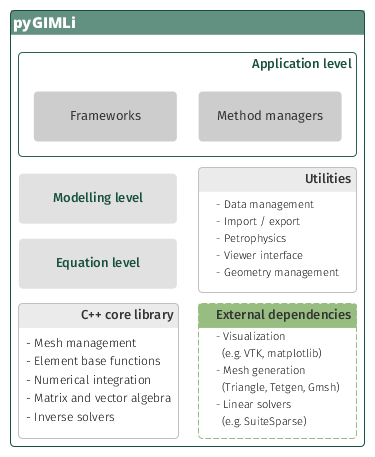
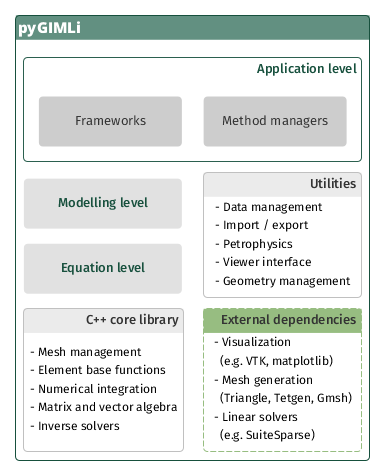
Some more doc improvement, more readable font in software design figure

Changed region(s): [[0.0293, 0.0, 0.9973, 0.9803], [0.1467, 0.5514, 0.3813, 0.5821], [0.176, 0.2451, 0.3813, 0.2757]]

diff --git a/python/pygimli/meshtools/quality.py b/python/pygimli/meshtools/quality.py
@@ -9,18 +9,23 @@ Field, D. A. (2000), Qualitative measures for initial meshes. Int. J. Numer.
 Meth. Engng., 47: 887–906.
 """
 
-import pygimli as pg
 import matplotlib.pyplot as plt
 import numpy as np
+
+import pygimli as pg
+
 
 # Helper functions
 def _boundaryLengths(cell):
     """Return boundary lengths of a given cell."""
-    return np.array([cell.boundary(i).size() for i in range(cell.boundaryCount())])
+    return np.array(
+        [cell.boundary(i).size() for i in range(cell.boundaryCount())])
+
 
 def _unitVector(vector):
     """Return the unit vector of the vector."""
     return vector / np.linalg.norm(vector)
+
 
 def _angleBetween(v1, v2):
     """Return the angle between vectors v1 and v2.
@@ -36,6 +41,7 @@ def _angleBetween(v1, v2):
     v2_u = _unitVector(v2)
     angle = np.arccos(np.clip(np.dot(v1_u, v2_u), -1.0, 1.0))
     return np.degrees(angle)
+
 
 def _cellAngles(cell):
     """Return angles of a triangular cell.
@@ -67,8 +73,9 @@ def _cellAngles(cell):
 
     return alpha, beta, gamma
 
+
 # Quality measures
-def _eta(cell):
+def eta(cell):
     r"""Return default triangle quality (eta) of a given cell.
 
     The quality measure relates the area of the triangle (a)
@@ -80,11 +87,13 @@ def _eta(cell):
     """
     return 4 * np.sqrt(3) * cell.size() / np.sum(_boundaryLengths(cell)**2)
 
-def _minimumAngle(cell):
-    """Return the normalized minimum angle of a given cell."""
-    return np.min(_cellAngles(cell))/60.
 
-def _nsr(cell):
+def minimumAngle(cell):
+    """Return the normalized minimum angle of a given cell."""
+    return np.min(_cellAngles(cell)) / 60.
+
+
+def nsr(cell):
     r"""Return the normalized shape ratio (NSR) for a given cell.
 
     Also referred to as the radius ratio, as it is described by
@@ -95,13 +104,14 @@ def _nsr(cell):
         \rho = \frac{2r}{R}
     """
     a, b, c = _boundaryLengths(cell)
-    r = 2 * cell.size() / (a + b + c) # inradius
-    R = 0.25 * a * b * c / cell.size() # circumradius
+    r = 2 * cell.size() / (a + b + c)  # inradius
+    R = 0.25 * a * b * c / cell.size()  # circumradius
 
     return 2 * r / R
 
+
 # Main function
-def quality(mesh, measure="eta", show=False):
+def quality(mesh, measure="eta"):
     """Return the quality of a given triangular mesh.
 
     Parameters
@@ -110,8 +120,6 @@ def quality(mesh, measure="eta", show=False):
         Mesh for which the quality is calculated.
     measure : quality measure, str
         Can be either "eta", "nsr", or "minimumAngle".
-    show : boolean
-        Show mesh quality and corresponding histogram.
 
     Examples
     --------
@@ -135,33 +143,29 @@ def quality(mesh, measure="eta", show=False):
     """
 
     # Implemented quality measures (Triangular meshses only.)
-    measures = {
-        "eta": _eta,
-        "nsr": _nsr,
-        "minimumAngle": _minimumAngle
-    }
+    measures = {"eta": eta, "nsr": nsr, "minimumAngle": minimumAngle}
 
     m = measures[measure]
     qualities = [m(cell) for cell in mesh.cells()]
+    return qualities
 
     if show:
-        fig, axes = plt.subplots(1,2)
+        fig, axes = plt.subplots(1, 2)
         axes[1].hist(qualities, color="grey")
         pg.show(mesh, qualities, ax=axes[0], cMin=0.5, cMax=1, hold=True,
                 logScale=False, label="Mesh quality", cmap="RdYlGn", grid=True)
-        s = "Min: %.2f, Mean: %.2f, Max: %.2f" % (np.min(qualities),
-                                                  np.mean(qualities),
-                                                  np.max(qualities))
+        s = "Min: %.2f, Mean: %.2f, Max: %.2f" % (
+            np.min(qualities), np.mean(qualities), np.max(qualities))
         axes[1].set_title(s)
         axes[1].set_xlabel("Mesh quality")
         axes[1].set_ylabel("Frequency")
-        axes[1].set_xlim(0,1)
+        axes[1].set_xlim(0, 1)
 
         # Figure resizing according to mesh dimesions
         x = mesh.xmax() - mesh.xmin()
         y = mesh.ymax() - mesh.ymin()
         width, height = fig.get_size_inches()
-        fig.set_figheight(height * 1.3 * (y/x))
+        fig.set_figheight(height * 1.3 * (y / x))
         fig.tight_layout()
     else:
         return qualities

diff --git a/python/pygimli/utils/__init__.py b/python/pygimli/utils/__init__.py
@@ -1,51 +1,19 @@
 # -*- coding: utf-8 -*-
 """
-    Utility functions for miscellaneous stuff.
+Useful utility functions.
 """
 
-from .base import gmat2numpy
-from .base import numpy2gmat
-from .base import rndig
-from .base import num2str
-from .base import inthist
-from .base import interperc
-from .base import interpExtrap
-from .base import saveResult
-from .base import getSavePath
-from .base import createResultFolder
-from .base import createDateTimeString
-from .base import createfolders
-
-from .utils import ProgressBar
-from .utils import boxprint
-from .utils import trimDocString
-from .utils import unicodeToAscii
-from .utils import logDropTol
-from .utils import grange
-from .utils import niceLogspace
-from .utils import diff
-from .utils import dist
-from .utils import cumDist
-from .utils import chi2
-from .utils import randN
-from .utils import rand
-from .utils import getIndex
-from .utils import filterIndex
-from .utils import findNearest
-from .utils import unique_everseen
-from .utils import unique
-from .utils import unique_rows
-from .utils import filterLinesByCommentStr
-
-from .postinversion import iterateBounds
-from .postinversion import modCovar
-
-from .geostatistics import covarianceMatrix
-from .geostatistics import computeInverseRootMatrix
-
-from . hankel import hankelFC
-
-from .sparseMat2Numpy import sparseMatrix2Array
-from .sparseMat2Numpy import convertCRSIndex2Map
+from .base import (createDateTimeString, createfolders, createResultFolder,
+                   getSavePath, gmat2numpy, interperc, interpExtrap, inthist,
+                   num2str, numpy2gmat, rndig, saveResult)
+from .geostatistics import computeInverseRootMatrix, covarianceMatrix
+from .hankel import hankelFC
+from .postinversion import iterateBounds, modCovar
+from .sparseMat2Numpy import convertCRSIndex2Map, sparseMatrix2Array
+from .utils import (ProgressBar, boxprint, chi2, cumDist, diff, dist,
+                    filterIndex, filterLinesByCommentStr, findNearest,
+                    getIndex, grange, logDropTol, niceLogspace, rand, randN,
+                    trimDocString, unicodeToAscii, unique, unique_everseen,
+                    unique_rows)
 
 __all__ = [name for name in dir() if '_' not in name]

diff --git a/python/pygimli/frameworks/__init__.py b/python/pygimli/frameworks/__init__.py
@@ -1,10 +1,9 @@
 # -*- coding: utf-8 -*-
-"""Inversion related methods."""
+"""Unified and method independent inversion frameworks."""
 
+from .harmfit import HarmFunctor, harmfit, harmfitNative
 from .inversion import MeshInversion
 from .modelling import Modelling
-
-from .harmfit import HarmFunctor, harmfitNative, harmfit
 from .resolution import computeR
 
 __all__ = ['HarmFunctor', 'harmfitNative', 'harmfit', 'computeR']

diff --git a/python/pygimli/solver/__init__.py b/python/pygimli/solver/__init__.py
@@ -1,8 +1,8 @@
 # -*- coding: utf-8 -*-
-"""General physics independent solver."""
+"""General physics independent solver interface."""
 
-from .solver import *
 from .green import greenDiffusion1D
+from .solver import *
 from .solverFiniteVolume import *
 
 __all__ = []

diff --git a/python/pygimli/manager/__init__.py b/python/pygimli/manager/__init__.py
@@ -1,5 +1,4 @@
 # -*- coding: utf-8 -*-
-"""MethodManager and Frameworks"""
+"""Method manager templates."""
 
-from .methodManager import (MethodManager,
-                            MeshMethodManager)
+from .methodManager import MeshMethodManager, MethodManager
